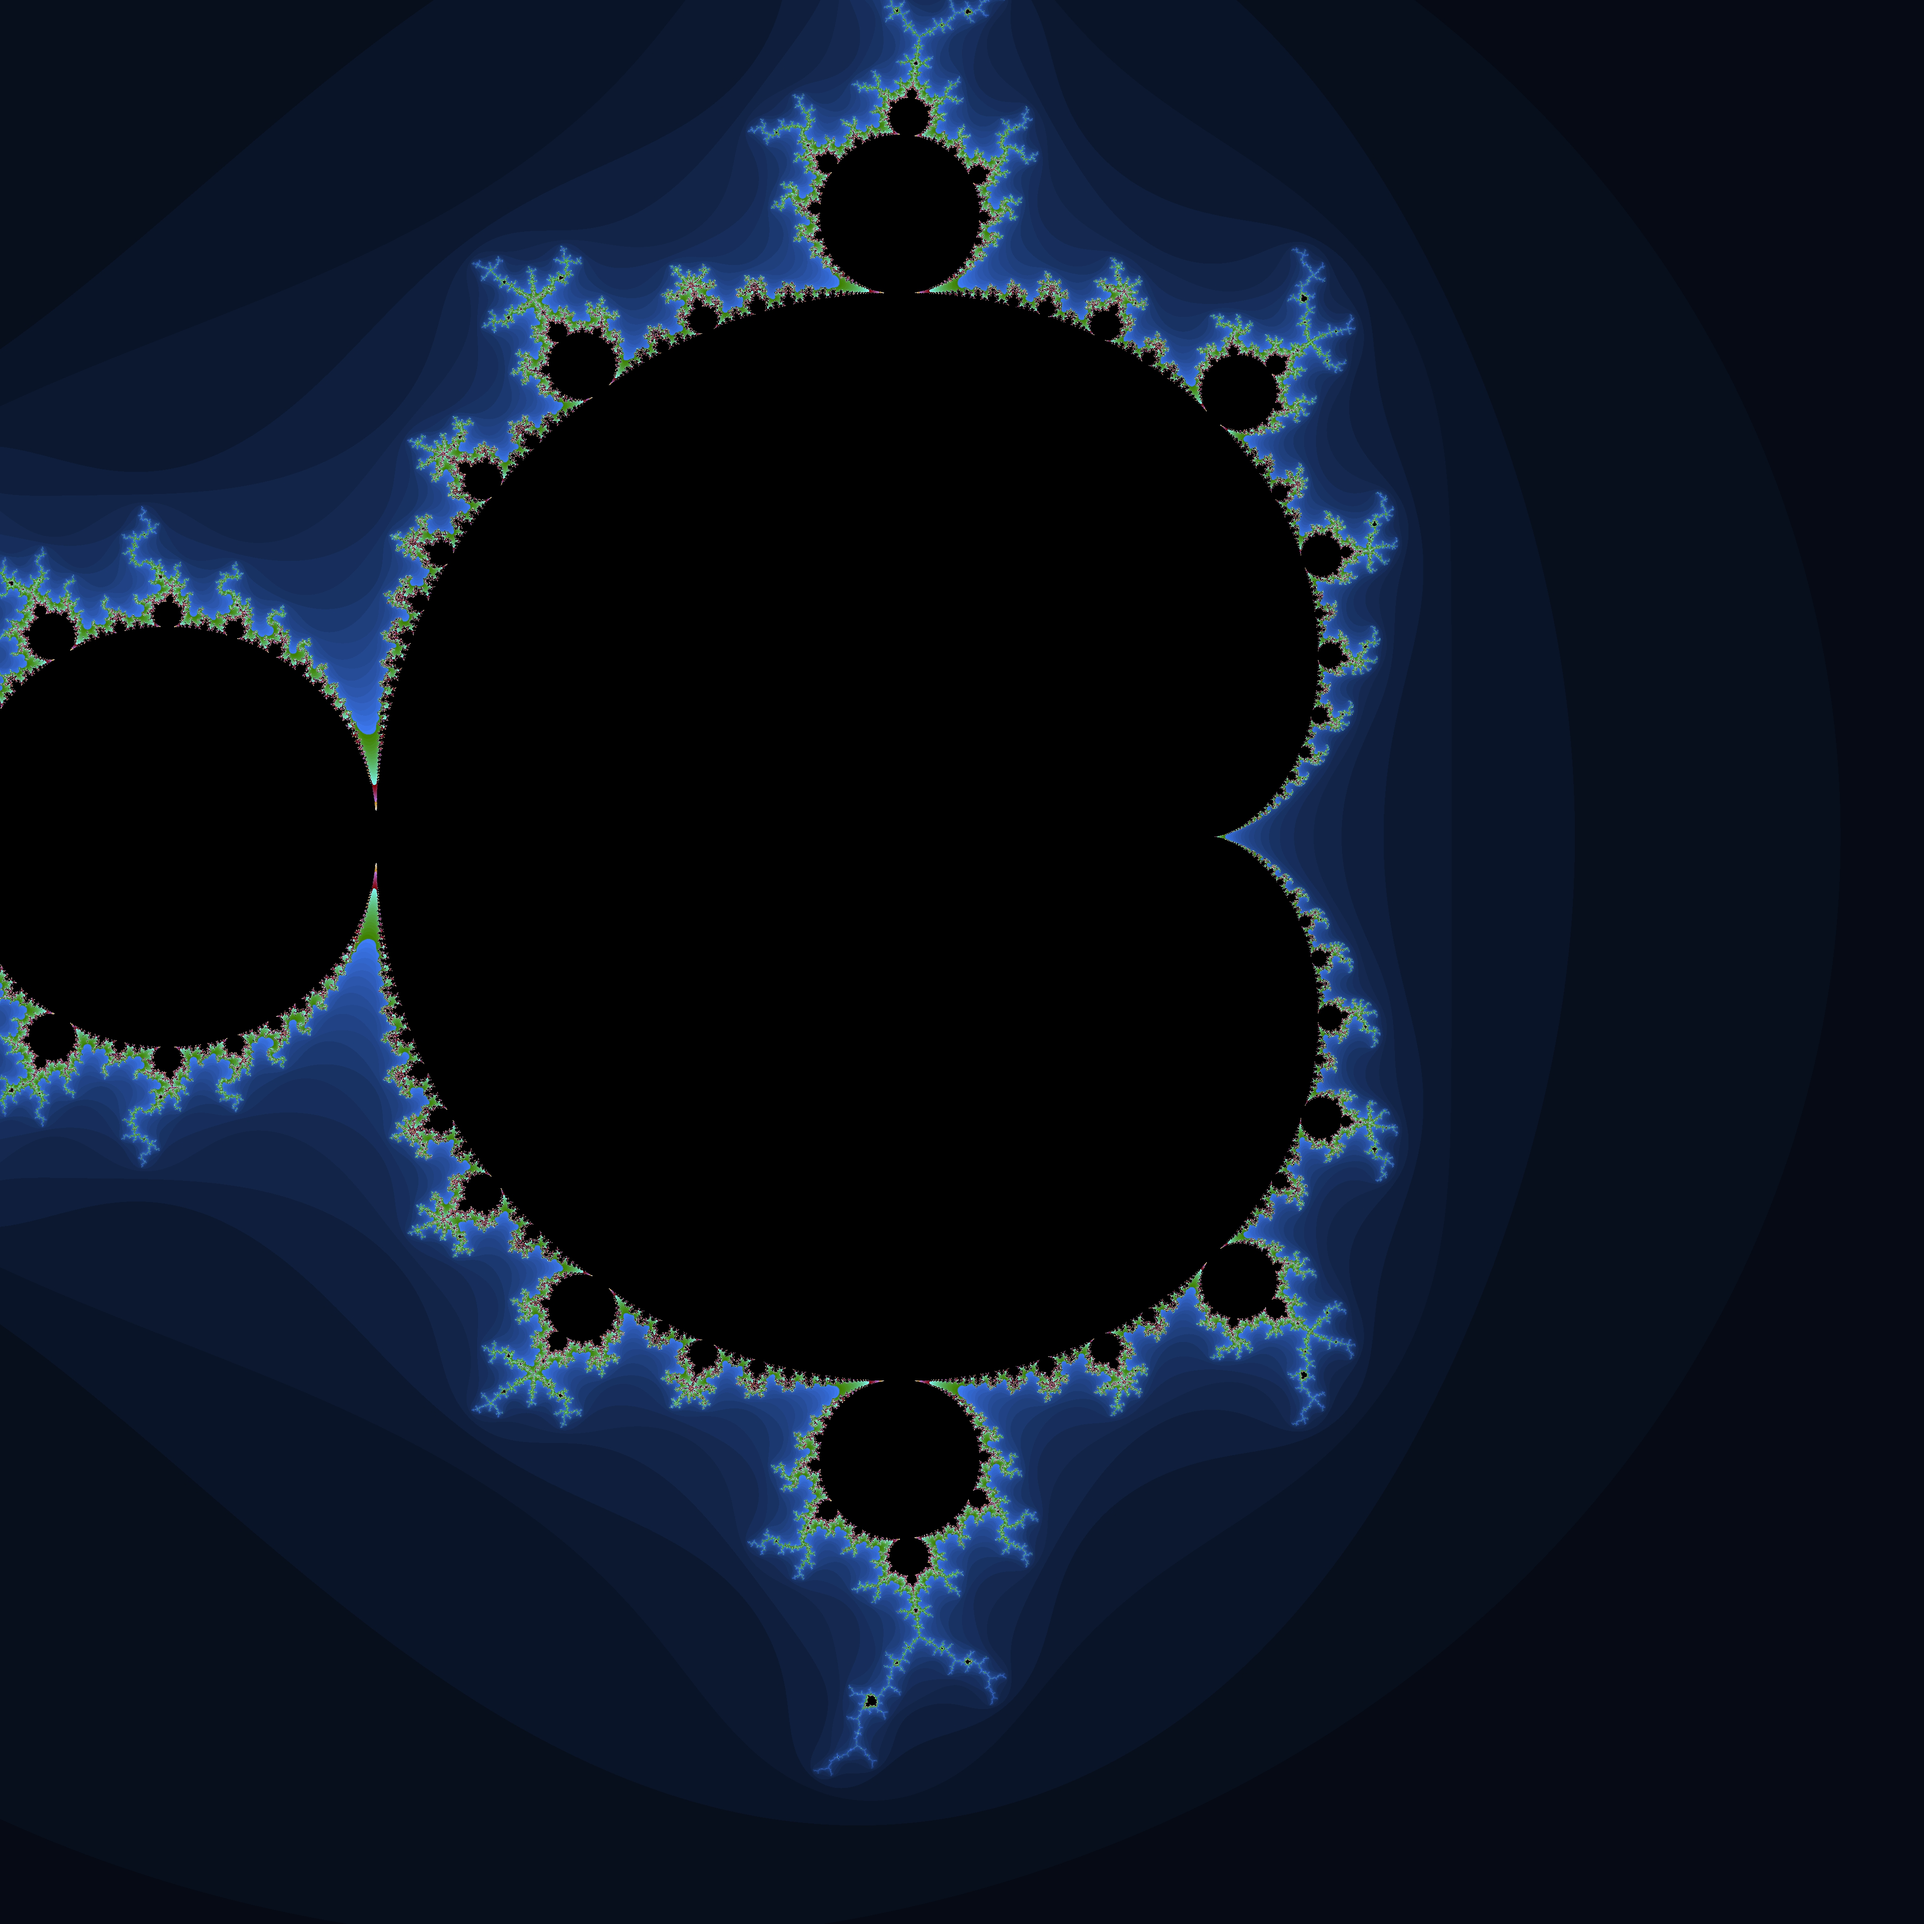
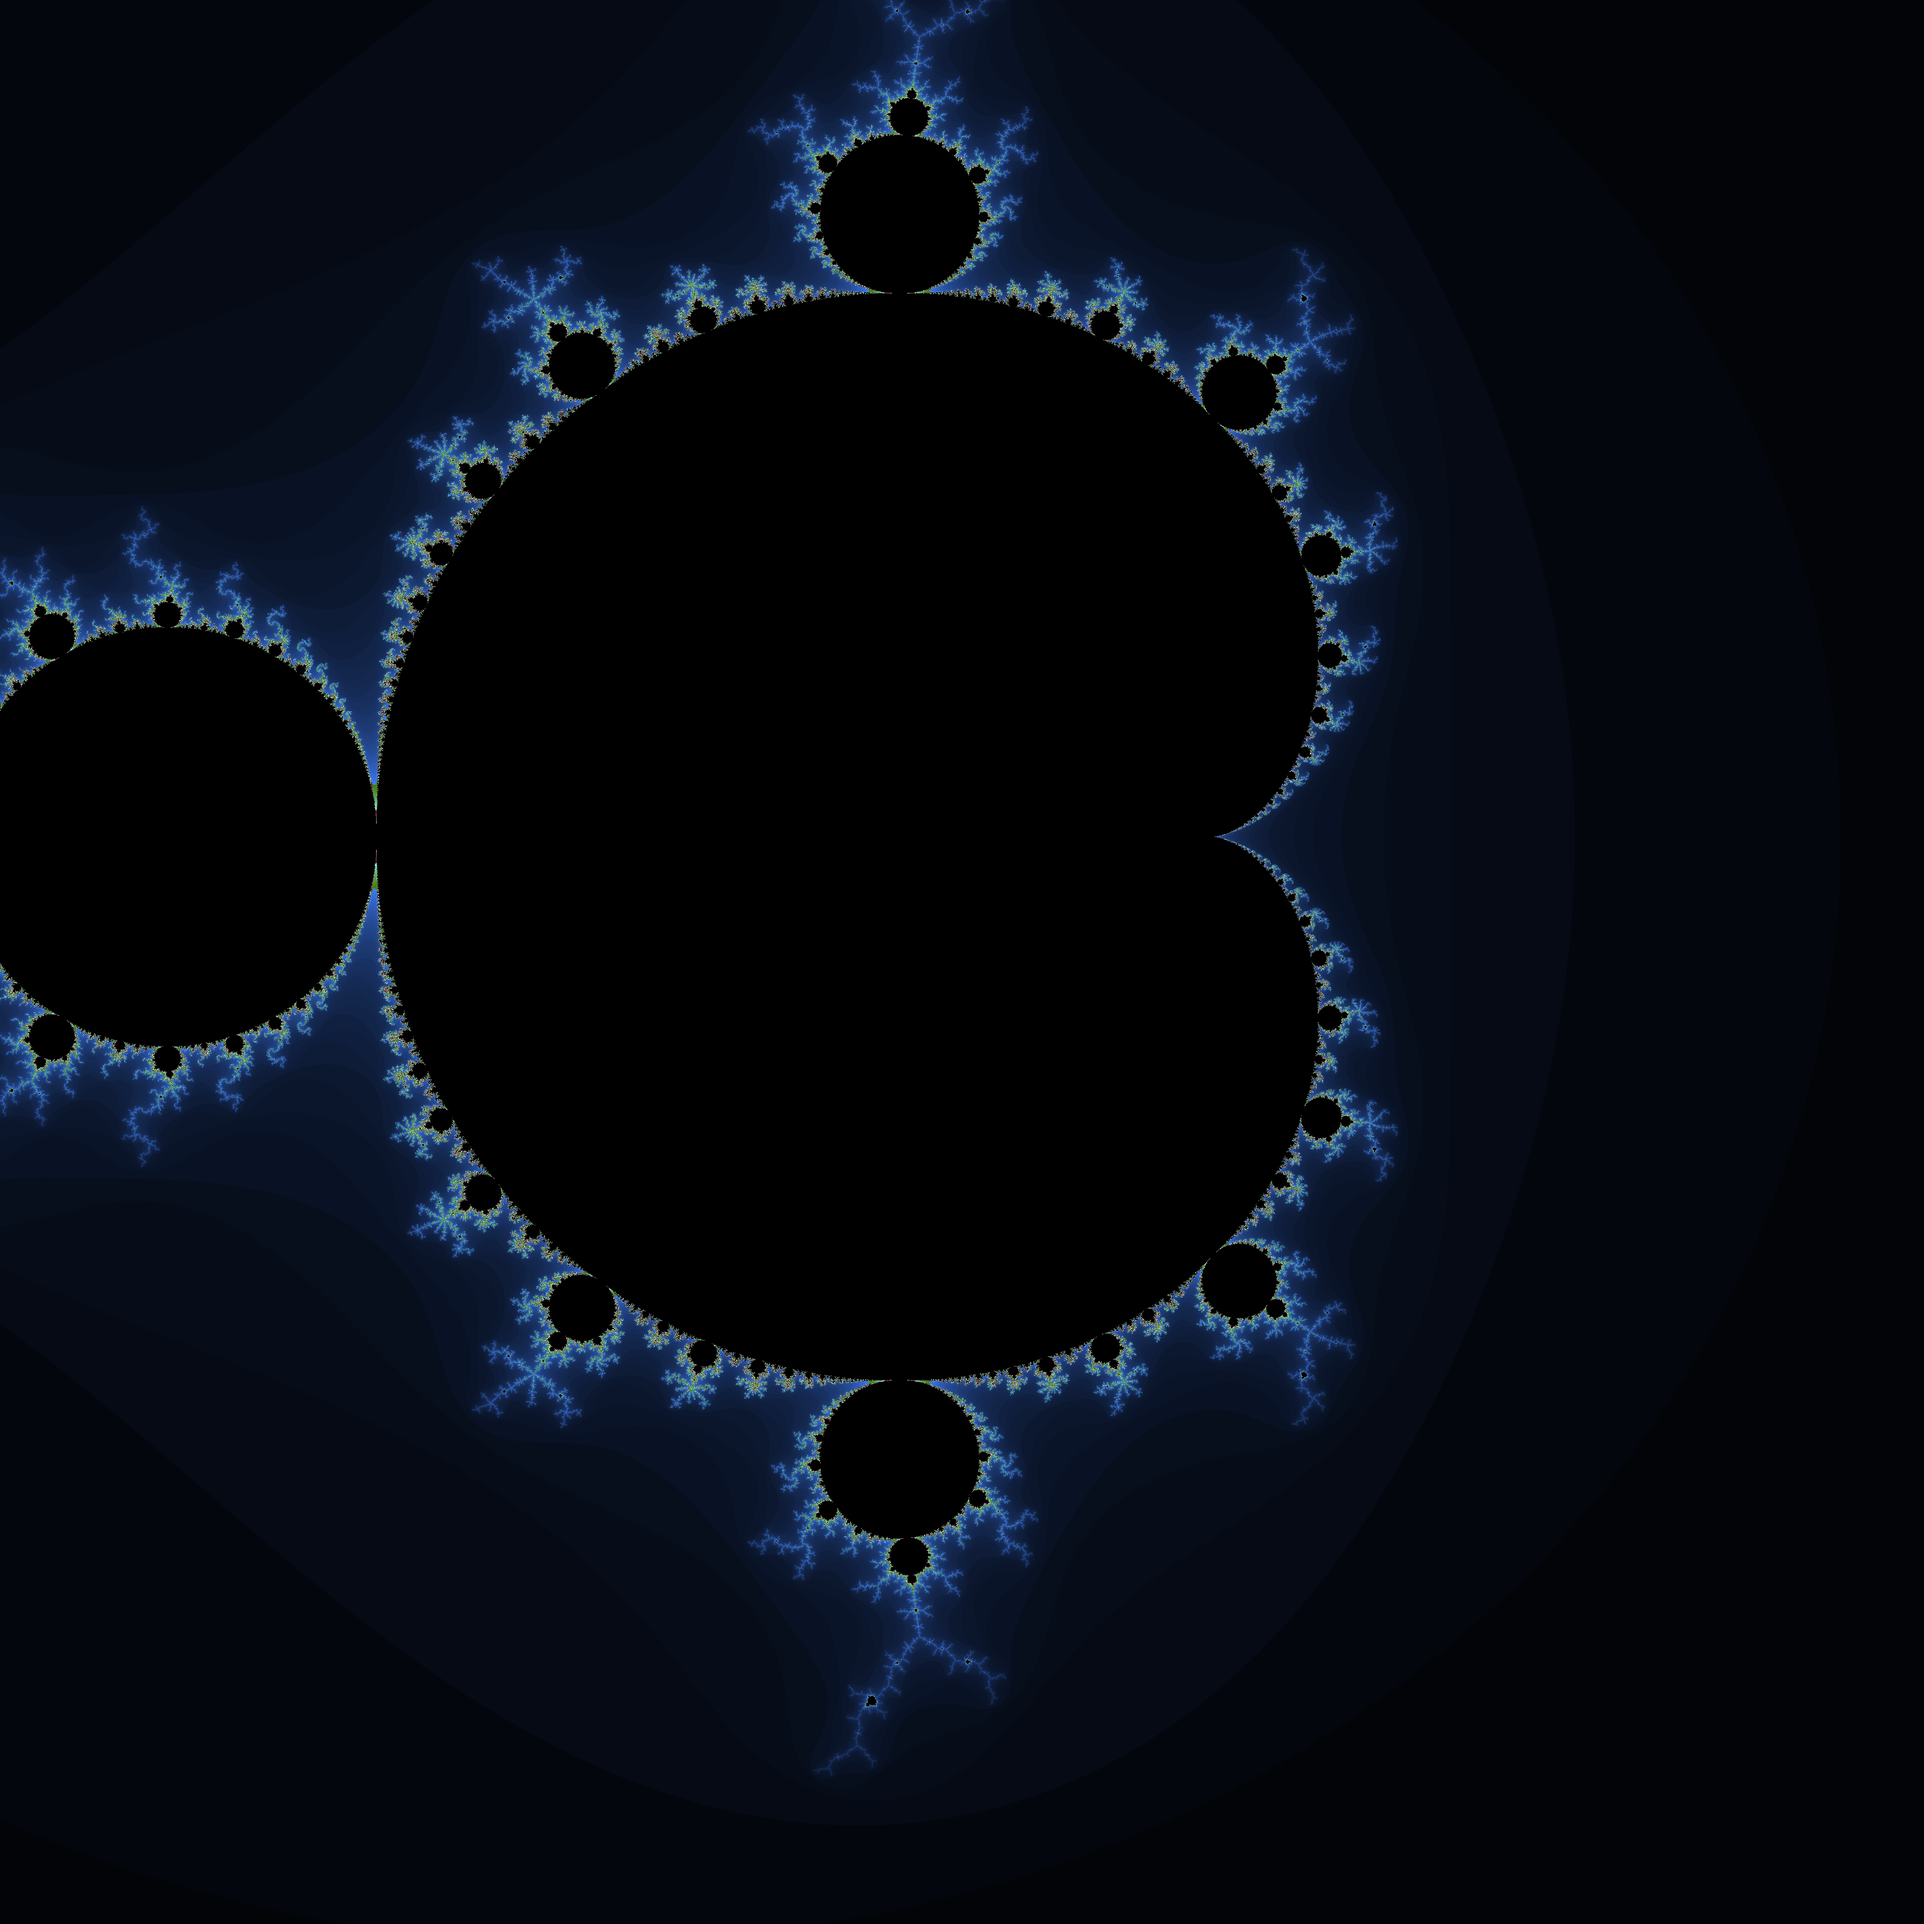
testing git repo

Changed region(s): [[0.0, 0.0, 0.75, 0.9375]]

diff --git a/mandlebrot/main.cpp b/mandlebrot/main.cpp
@@ -33,7 +33,7 @@ struct MandleBrot1
         {
             for (int x = 0; x < _iWidth; x++)
             {
-                int color = value(x, y, _iWidth, _iHeight, 100);
+                int color = value(x, y, _iWidth, _iHeight, 200);
                 int ipx = (y * _iWidth + x) * 3;
                 
                 image_buffer[ipx] = color;
